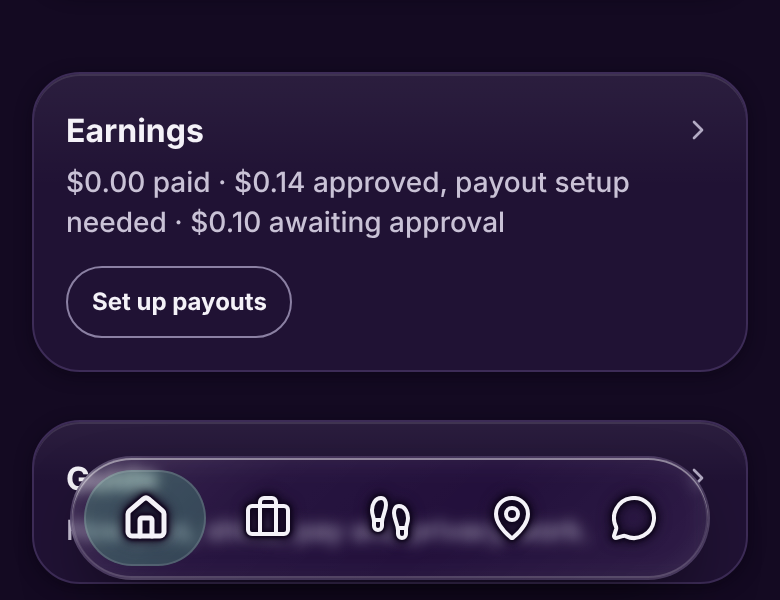
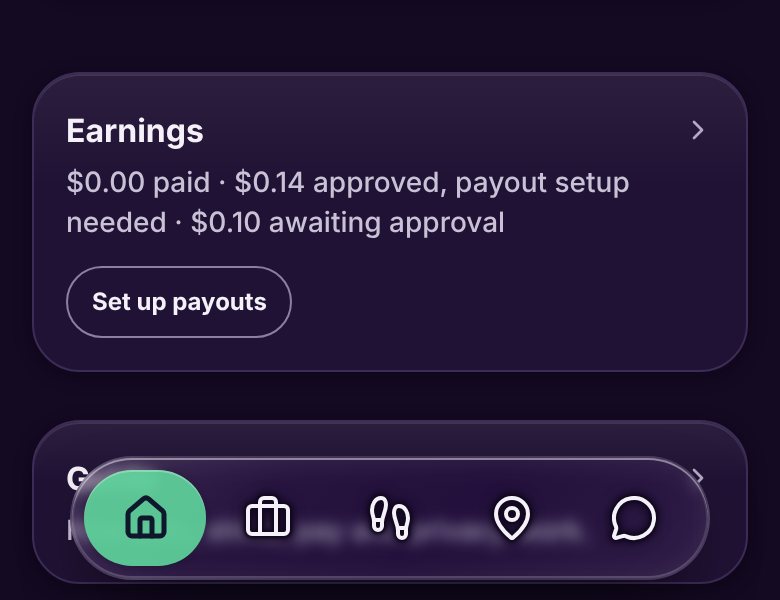
Clear dock: the current tab is a solid selection colour, not a tint
Caden: the selection looked washed out in both modes. On a near-clear
pane a 26% tint nearly vanished. It is now the selection colour at 92%,
with a white icon by day and an ink one by night.

Claude-Session: https://claude.ai/code/session_01M5jonG7B326Ty4GJKyZ5gK

Changed region(s): [[0.0923, 0.78, 0.2769, 0.96]]

diff --git a/src/lib/design-tokens.test.ts b/src/lib/design-tokens.test.ts
@@ -123,15 +123,16 @@ describe.each([
   it("the dock is Liquid Glass: ink icons on a translucent pane, the current one in a tinted capsule; Sunlight keeps its solid black frame", () => {
     expect(css).toMatch(/\.tabbar \{[^}]*?background: var\(--dock-sheen\), var\(--dock-bg\);[^}]*?backdrop-filter: var\(--dock-filter\);[^}]*?box-shadow: var\(--dock-highlight\);/);
     expect(css).toMatch(/\.tab \{[^}]*?color: var\(--dock-fg\);[^}]*\}/);
-    expect(css).toMatch(/\n  \.tab\[aria-current\] \{[^}]*?color: var\(--dock-current-fg\);\s*background: var\(--dock-capsule\);/);
-    expect(css).toMatch(/--dock-fg: var\(--fg\);\s*--dock-current-fg: var\(--fg\);\s*--dock-capsule: color-mix\(in srgb, var\(--select\) 26%, transparent\);/);
+    expect(css).toMatch(/\n  \.tab\[aria-current\] \{[^}]*?color: var\(--dock-current-fg\);\s*background: var\(--dock-current-bg\);/);
+    // The tab you're on is solid, not a tint (Caden, Nov 11: the tint read as washed out): the selection colour nearly opaque, white on it by day and ink by night.
+    expect(css).toMatch(/--dock-current-bg: color-mix\(in srgb, var\(--select\) 92%, transparent\);\s*--dock-current-fg: #ffffff;\s*--dock-capsule: color-mix\(in srgb, var\(--select\) 26%, transparent\);/);
+    expect(themeBody(css, ".dark")).toMatch(/--dock-current-fg: var\(--ink\);/);
+    expect(css).toMatch(/\.tab\[aria-current\] \.tab-icon \{[^}]*?filter: none;/);
     // The dock is the clearest glass in the app (Caden's reference, Nov 10): a faint tint and a light blur, so the page shows through.
     expect(css).toMatch(/\nhtml \{[^}]*?--dock-bg: color-mix\(in srgb, var\(--surface\) 12%, transparent\);\s*--dock-filter: blur\(3\.5px\) saturate\(170%\);/);
     expect(themeBody(css, ".dark")).toMatch(/--dock-bg: color-mix\(in srgb, var\(--surface\) 16%, transparent\);\s*--dock-filter: blur\(3\.5px\) saturate\(130%\);/);
     // So little pane cannot carry contrast by itself: every dock icon is outlined in the page's own colour instead.
     expect(css).toMatch(/\n  \.tab-icon \{[^}]*?filter: (drop-shadow\(0 0 0\.5px var\(--dock-halo\)\) ){3}drop-shadow\(0 0 1px var\(--dock-halo\)\) drop-shadow\(0 0 3px var\(--dock-halo\)\);/);
-    // The current tab keeps a hairline, so its capsule holds its shape when the page behind matches the tint.
-    expect(css).toMatch(/\n  \.tab\[aria-current\] \{[^}]*?box-shadow: inset 0 0 0 1px var\(--dock-border\);/);
     expect(css).toMatch(/\nhtml \{[^}]*?--dock-halo: var\(--surface\);/);
     expect(themeBody(css, ".dark")).toMatch(/--dock-halo: var\(--bg\);/);
     // The pane's share of the card colour, by day and by night; the rest is whatever scrolls behind it.
@@ -151,6 +152,10 @@ describe.each([
       expect(ratio(t.fg, pane)).toBeGreaterThanOrEqual(3);
       // The selection is tinted purple by day and green by night; the icon on it keeps the ink.
       expect(ratio(t.fg, mix(t.select, 0.26, hex(pane)))).toBeGreaterThanOrEqual(3);
+      // The current tab's icon on its solid capsule, over the worst case showing through the capsule's last 8%: 4.5:1 or better.
+      const capsuleOver = (behind: string) => mix(t.select, 0.92, behind);
+      const currentFg = name === "dark" ? t.ink : "#ffffff";
+      for (const behind of ["#000000", "#ffffff"]) expect(ratio(currentFg, capsuleOver(behind))).toBeGreaterThanOrEqual(4.5);
       // The dock's pane is nearly clear, so its icons are judged against their own halo, which is what sits next to every stroke.
       // The halo is soft, not a solid fill: it is taken at half strength over the worst case behind the dock's own pane (black by day, white by night). An estimate of the blur, not a measurement.
       const dockPane = name === "dark" ? mix(t.surface, 0.16, "#ffffff") : mix(t.surface, 0.12, "#000000");
@@ -463,7 +468,7 @@ describe("the ten locked colours (founder's twelve-screen concept, #111)", () =>
       for (const [, name, value] of body.matchAll(/--([\w-]+):\s*([^;]+);/g)) {
         if (/^#[0-9a-fA-F]{6}$/.test(value.trim())) expect(parsed[name]).toBe(value.trim());
         else if (name === "hero-border") expect(value.trim()).toBe("transparent");
-        else expect(name).toMatch(/^(shadow|shadow-depth|glass-(bg|bg-strong|bg-bar|border|highlight|filter|sheen)|card-(bg|edge|sheen)|dock-(bg|fg|border|ring|filter|sheen|highlight|halo)|drawer-root|header-bg|page-wash)$/); // the only non-colour tokens: shadows and the glass recipe
+        else expect(name).toMatch(/^(shadow|shadow-depth|glass-(bg|bg-strong|bg-bar|border|highlight|filter|sheen)|card-(bg|edge|sheen)|dock-(bg|fg|border|ring|filter|sheen|highlight|halo|current-bg|current-fg)|drawer-root|header-bg|page-wash)$/); // the only non-colour tokens: shadows and the glass recipe
       }
     }
   });

diff --git a/src/app/globals.css b/src/app/globals.css
@@ -194,6 +194,7 @@
   --dock-sheen: linear-gradient(135deg, rgb(255 255 255 / 0.1) 0%, rgb(255 255 255 / 0.02) 30%, rgb(255 255 255 / 0) 58%, rgb(255 255 255 / 0.05) 100%);
   --dock-highlight: inset 0 1px 0 rgb(255 255 255 / 0.4), inset 0 -1px 0 rgb(255 255 255 / 0.1), inset 0 0 0 1px rgb(255 255 255 / 0.1), inset 0 0 16px rgb(255 255 255 / 0.07), 0 14px 36px -14px rgb(0 0 0 / 0.8);
   --dock-halo: var(--bg);
+  --dock-current-fg: var(--ink);
   --glass-bg: color-mix(in srgb, var(--surface) 62%, transparent);
   --glass-bg-strong: color-mix(in srgb, var(--surface) 78%, transparent);
   --drawer-root: color-mix(in srgb, var(--surface) 78%, color-mix(in srgb, rgb(8 4 14) 60%, var(--bg)));
@@ -324,7 +325,10 @@ html {
   --dock-highlight: inset 0 1.5px 0 rgb(255 255 255 / 0.95), inset 0 -1px 0 rgb(255 255 255 / 0.5), inset 0 0 0 1px rgb(255 255 255 / 0.36), inset 0 0 12px rgb(255 255 255 / 0.22), 0 10px 30px -12px rgb(28 15 46 / 0.42);
   --dock-halo: var(--surface);
   --dock-fg: var(--fg);
-  --dock-current-fg: var(--fg);
+  /* The tab you're on is the one solid thing on the clear dock (Caden, Nov 11: a tint read as washed out):
+     the selection colour nearly opaque, with the icon in the colour that reads on it. */
+  --dock-current-bg: color-mix(in srgb, var(--select) 92%, transparent);
+  --dock-current-fg: #ffffff;
   --dock-capsule: color-mix(in srgb, var(--select) 26%, transparent);
   --dock-border: color-mix(in srgb, var(--fg) 14%, transparent);
   --dock-ring: var(--surface);
@@ -1758,9 +1762,9 @@ body {
   .tab[aria-current] {
     @apply font-semibold;
     color: var(--dock-current-fg);
-    background: var(--dock-capsule);
-    /* On a clear pane the tint alone can match what passes underneath: a hairline keeps the capsule's shape. */
-    box-shadow: inset 0 0 0 1px var(--dock-border);
+    background: var(--dock-current-bg);
+    /* A lit top edge, so the solid capsule still reads as glass. */
+    box-shadow: inset 0 1px 0 rgb(255 255 255 / 0.28), 0 1px 3px rgb(0 0 0 / 0.18);
     view-transition-name: tab-current;
   }
   .tab-icon {
@@ -1784,6 +1788,8 @@ body {
   .tab[aria-current] .tab-icon {
     color: var(--dock-current-fg);
     stroke-width: 2.5;
+    /* It sits on its own solid capsule: no halo needed, and one would smudge it. */
+    filter: none;
   }
   /* Sunlight keeps its white current tile with black type (outdoor glare). */
   .sun .tab[aria-current] {

diff --git a/docs/design/hero-board/evidence/liquid-glass-2026-11-10/README.md b/docs/design/hero-board/evidence/liquid-glass-2026-11-10/README.md
@@ -88,7 +88,9 @@ What the reference does: the dock is almost clear. The page stays visible throug
 
 Only the dock changed. Bars, the drawer, sheets and cards carry text, so they keep their denser glass.
 
-**Contrast.** A pane this clear cannot guarantee contrast by itself. Each dock icon is now outlined in the page's own colour (a three-layer drop shadow), so that colour sits next to every stroke whatever scrolls underneath. The outline is soft, so this is weaker than a solid pane: by estimate the icon holds 3:1 against it in the worst case (black behind by day, white by night), in a ring about a pixel wide. The test pins that estimate; it is not a measurement. The current tab also keeps a hairline around its capsule. Sunlight mode and the reduced-transparency setting keep their solid dock.
+**Contrast.** A pane this clear cannot guarantee contrast by itself. Each dock icon is now outlined in the page's own colour (a three-layer drop shadow), so that colour sits next to every stroke whatever scrolls underneath. The outline is soft, so this is weaker than a solid pane: by estimate the icon holds 3:1 against it in the worst case (black behind by day, white by night), in a ring about a pixel wide. The test pins that estimate; it is not a measurement. 
+
+**Selection (Nov 11).** Caden: the selection colour looked washed out in both modes. On the old frosted pane the current tab was a 26% tint; on a clear pane that nearly vanished. The current tab is now a solid capsule in the selection colour (purple by day, green by night, 92% opaque), with a white icon by day and an ink one by night. Both hold 4.5:1 or better on the capsule whatever shows through. The drawer and sidebar keep their tint: they sit on dense panes. Sunlight mode and the reduced-transparency setting keep their solid dock.
 
 Not checked on a real iPhone. Chromium only.
 
